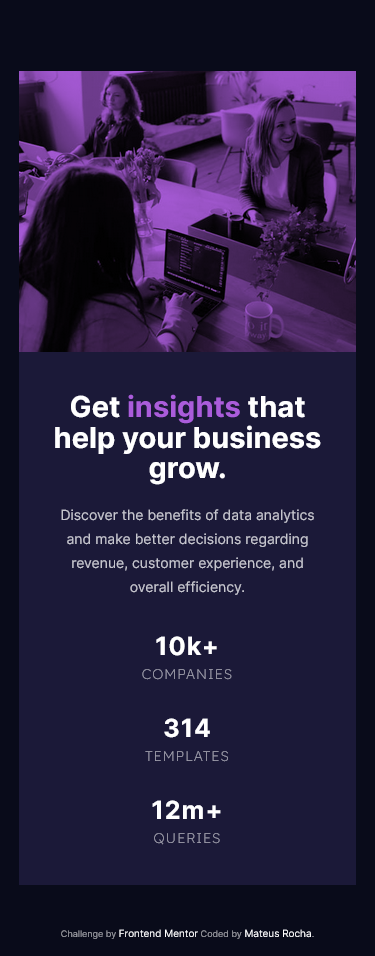
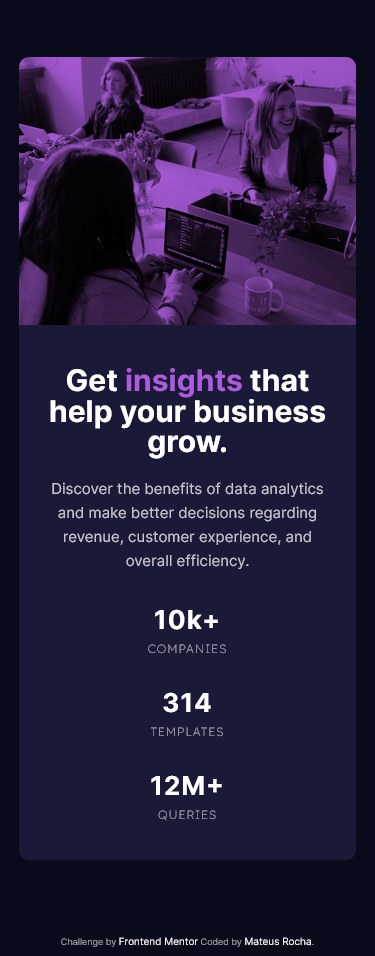
CSS fixes
- Update screenshots
- fixes problems with resposive CSS

Changed region(s): [[0.0293, 0.0607, 0.968, 0.9404], [0.1467, 0.9707, 0.8507, 1.0]]

diff --git a/CSS/style.css b/CSS/style.css
@@ -46,6 +46,7 @@ html {
     height: 50%;
     display: flex;
     flex-direction: row;
+    border-radius: 10px;
 }
 
 .content {
@@ -82,6 +83,7 @@ html {
 picture {
     width: 50%;
     background-color: hsl(277, 64%, 61%);
+    border-radius: 0px 10px 10px 0 ;
 }
 
 picture img {
@@ -238,6 +240,7 @@ footer a:hover {
 }
 
 @media (max-width: 375px) {
+
     .box {
         width: 90%;
         height: 80%;
@@ -245,10 +248,10 @@ footer a:hover {
     }
 
     picture {
-        height: 30%;
+        height: 35%;
         width: 100%;
+        border-radius: 10px 10px 0 0;
     }
-
 
     .content {
         height: 70%;
@@ -263,9 +266,8 @@ footer a:hover {
     }
 
     .paragraph p {
-        font-size: 1.125rem;
+        font-size: 0.9375rem;
         line-height: 1.5rem;
-        text-align: center;
     }
 
     ul {
